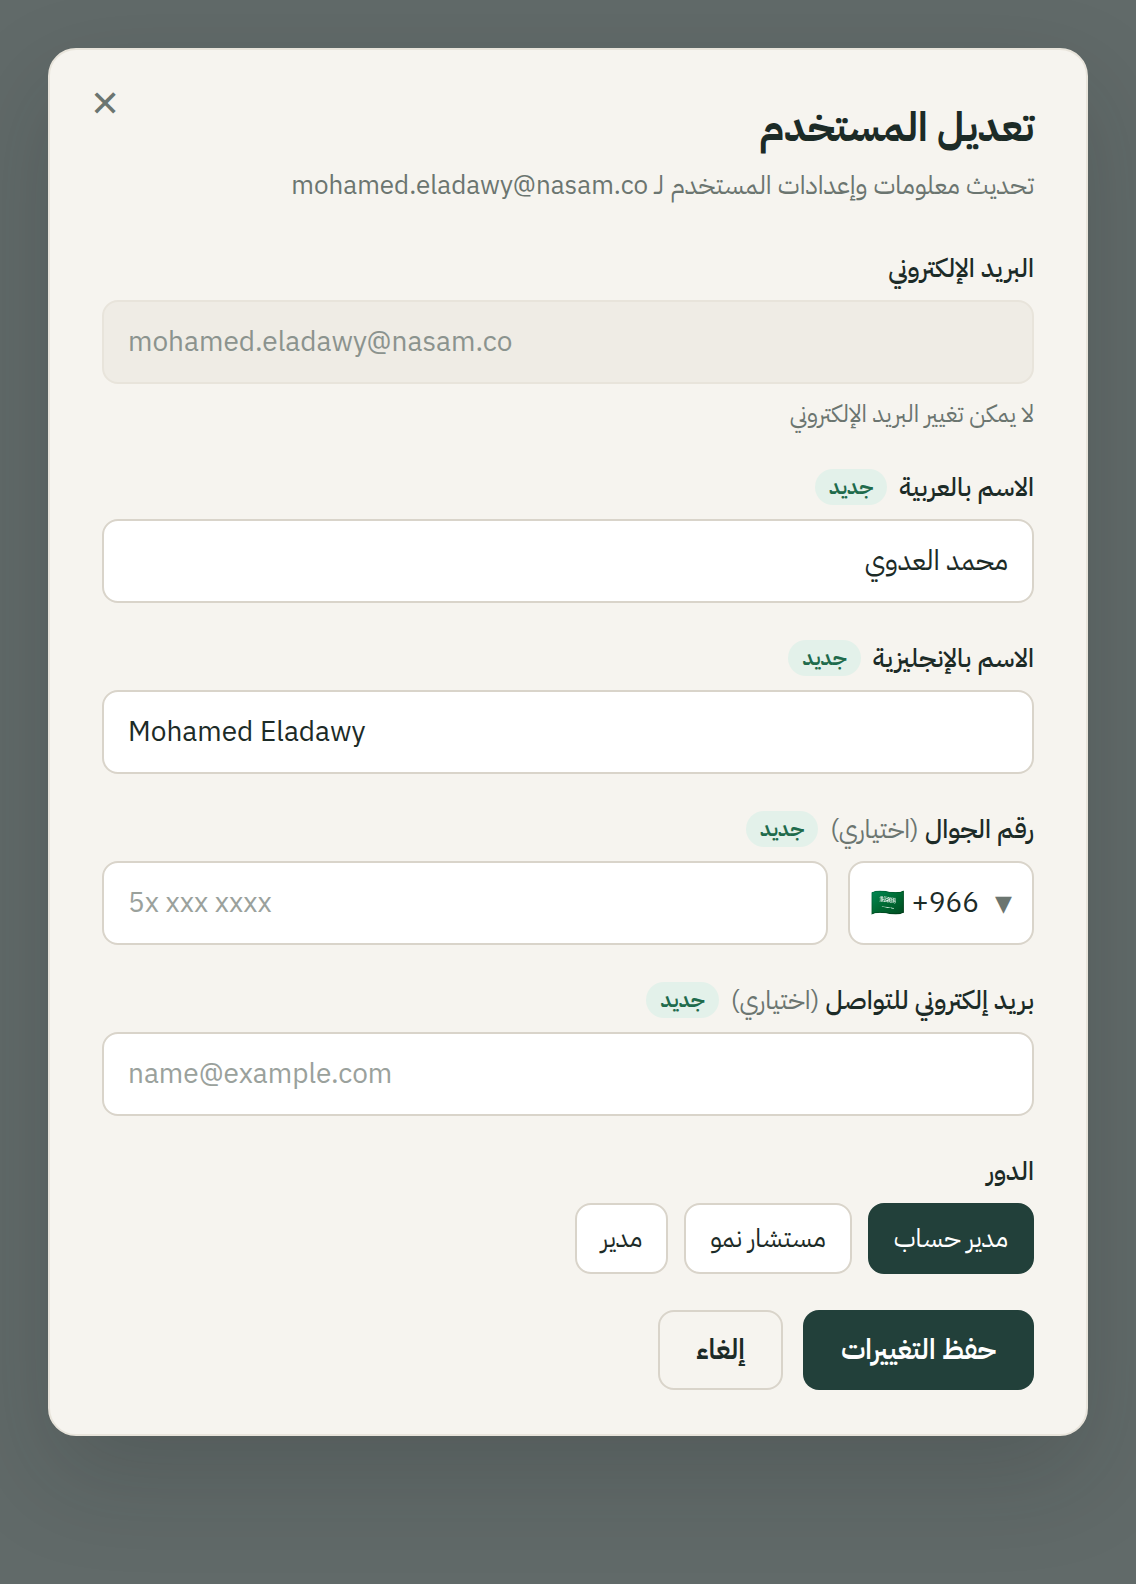
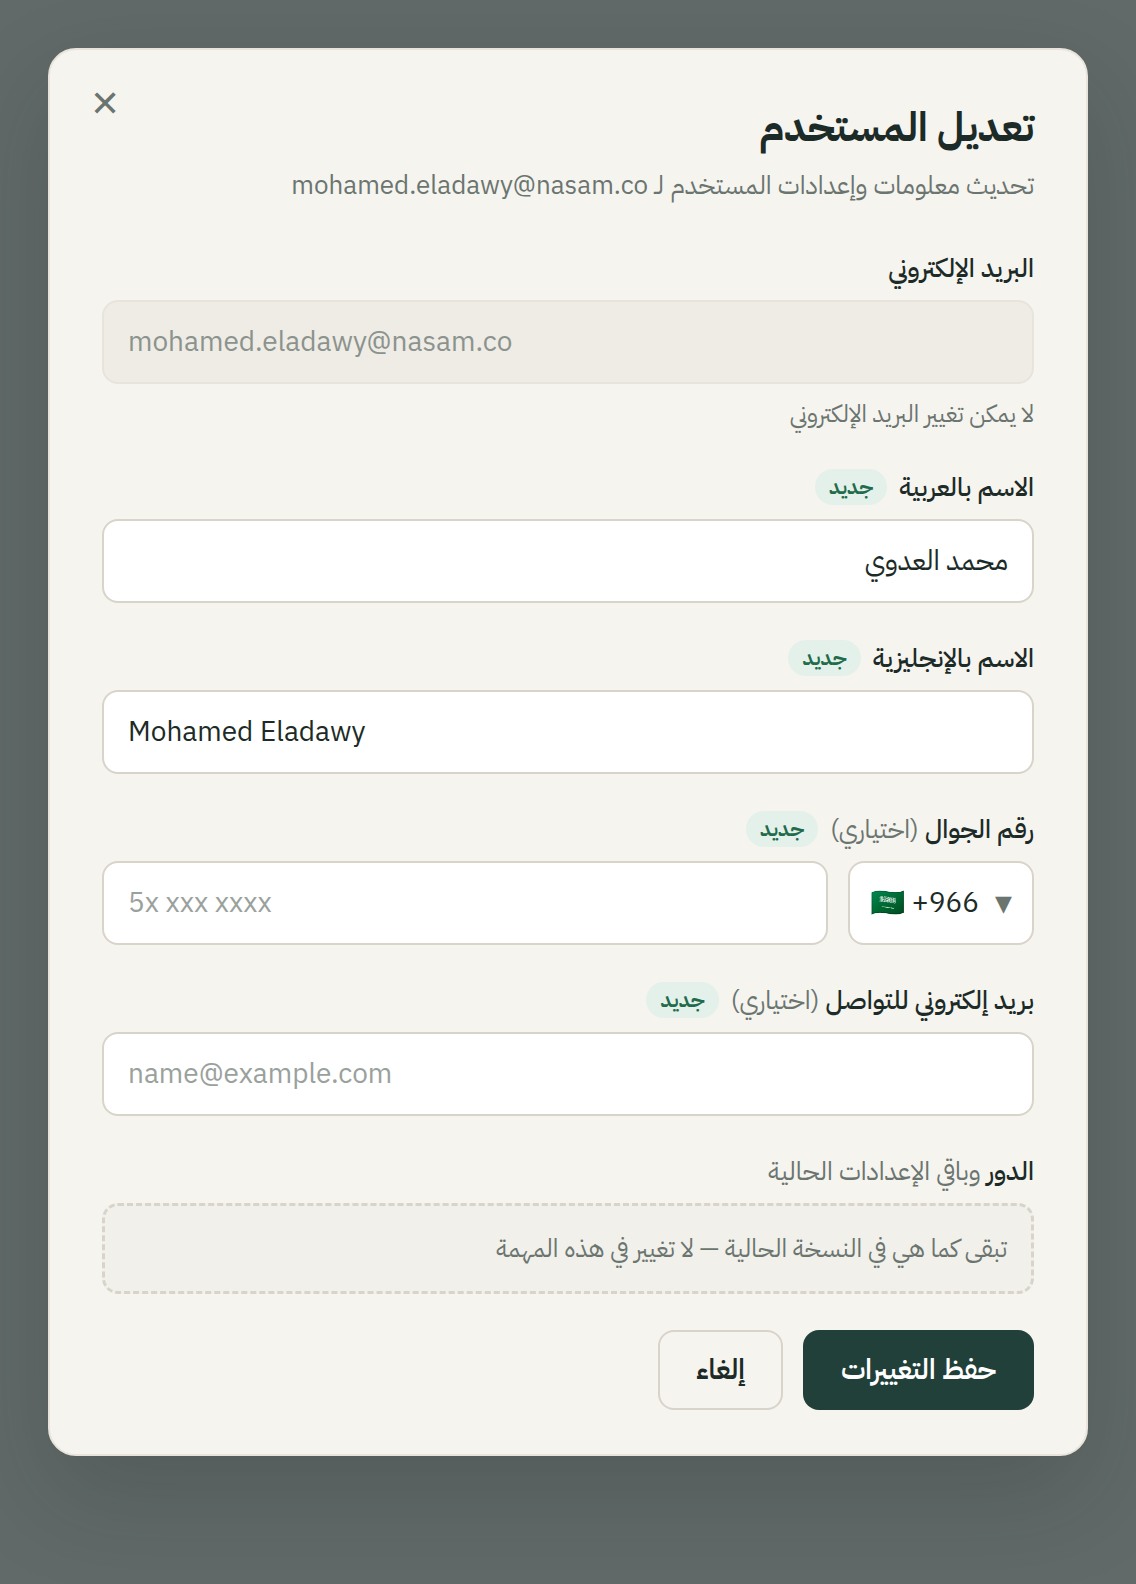
Keep Role control in admin Edit-user dialog unchanged
The role selector and other existing settings in the admin dialog are
out of scope for the profile task and stay as they are today. Mockup
now shows them as an as-is placeholder instead of a redesigned control.

Claude-Session: https://claude.ai/code/session_01AtmWM16RAQw9CKzDmzBdfN

Changed region(s): [[0.0308, 0.7115, 0.9551, 0.928], [0.6778, 0.7115, 0.7394, 0.7424]]

diff --git a/docs/discovery/user-profile/DISCOVERY.md b/docs/discovery/user-profile/DISCOVERY.md
@@ -107,7 +107,7 @@ The dialog is one screen, no tabs. Order reflects what the user came for and wha
 
 ### Navigation placement
 - Sidebar footer menu (image 1): **My profile · Appearance · Language · Logout**, in that order. Profile is first because it is an action on "me"; the other three are preferences and stay where users know them.
-- Admin user management (image 2): same fields inside the existing "Edit user" dialog, replacing the single "Full name" input with the two localized names, and adding phone + contact email below the email. Admin dialog keeps its title and layout otherwise.
+- Admin user management (image 2): same fields inside the existing "Edit user" dialog, replacing the single "Full name" input with the two localized names, and adding phone + contact email below the email. Admin dialog keeps its title and layout otherwise. The Role ("الدور") control and all other existing settings in that dialog are out of scope and stay as they are; they will be handled in a later task.
 
 ## Key Interactions
 

diff --git a/docs/discovery/user-profile/UX-TOUCH.md b/docs/discovery/user-profile/UX-TOUCH.md
@@ -59,6 +59,7 @@
 ### 3d. Admin "Edit user" dialog → same fields
 - Replace the single "Full name" input with "Name in Arabic" + "Name in English".
 - Add Phone and Contact email below the email field, before Role.
+- **Role ("الدور") and every other existing control in this dialog stay exactly as they are today.** Do not restyle, reorder, or change the role selector; it will be revisited in a separate task. The mockup shows it as an "as-is" placeholder for that reason.
 - Keep the legacy full name readable somewhere only if the two localized names are both empty (e.g. as placeholder text in the Arabic/English inputs, "Migrated from: {fullName}"), so admins understand what the migration did.
 
 ---
